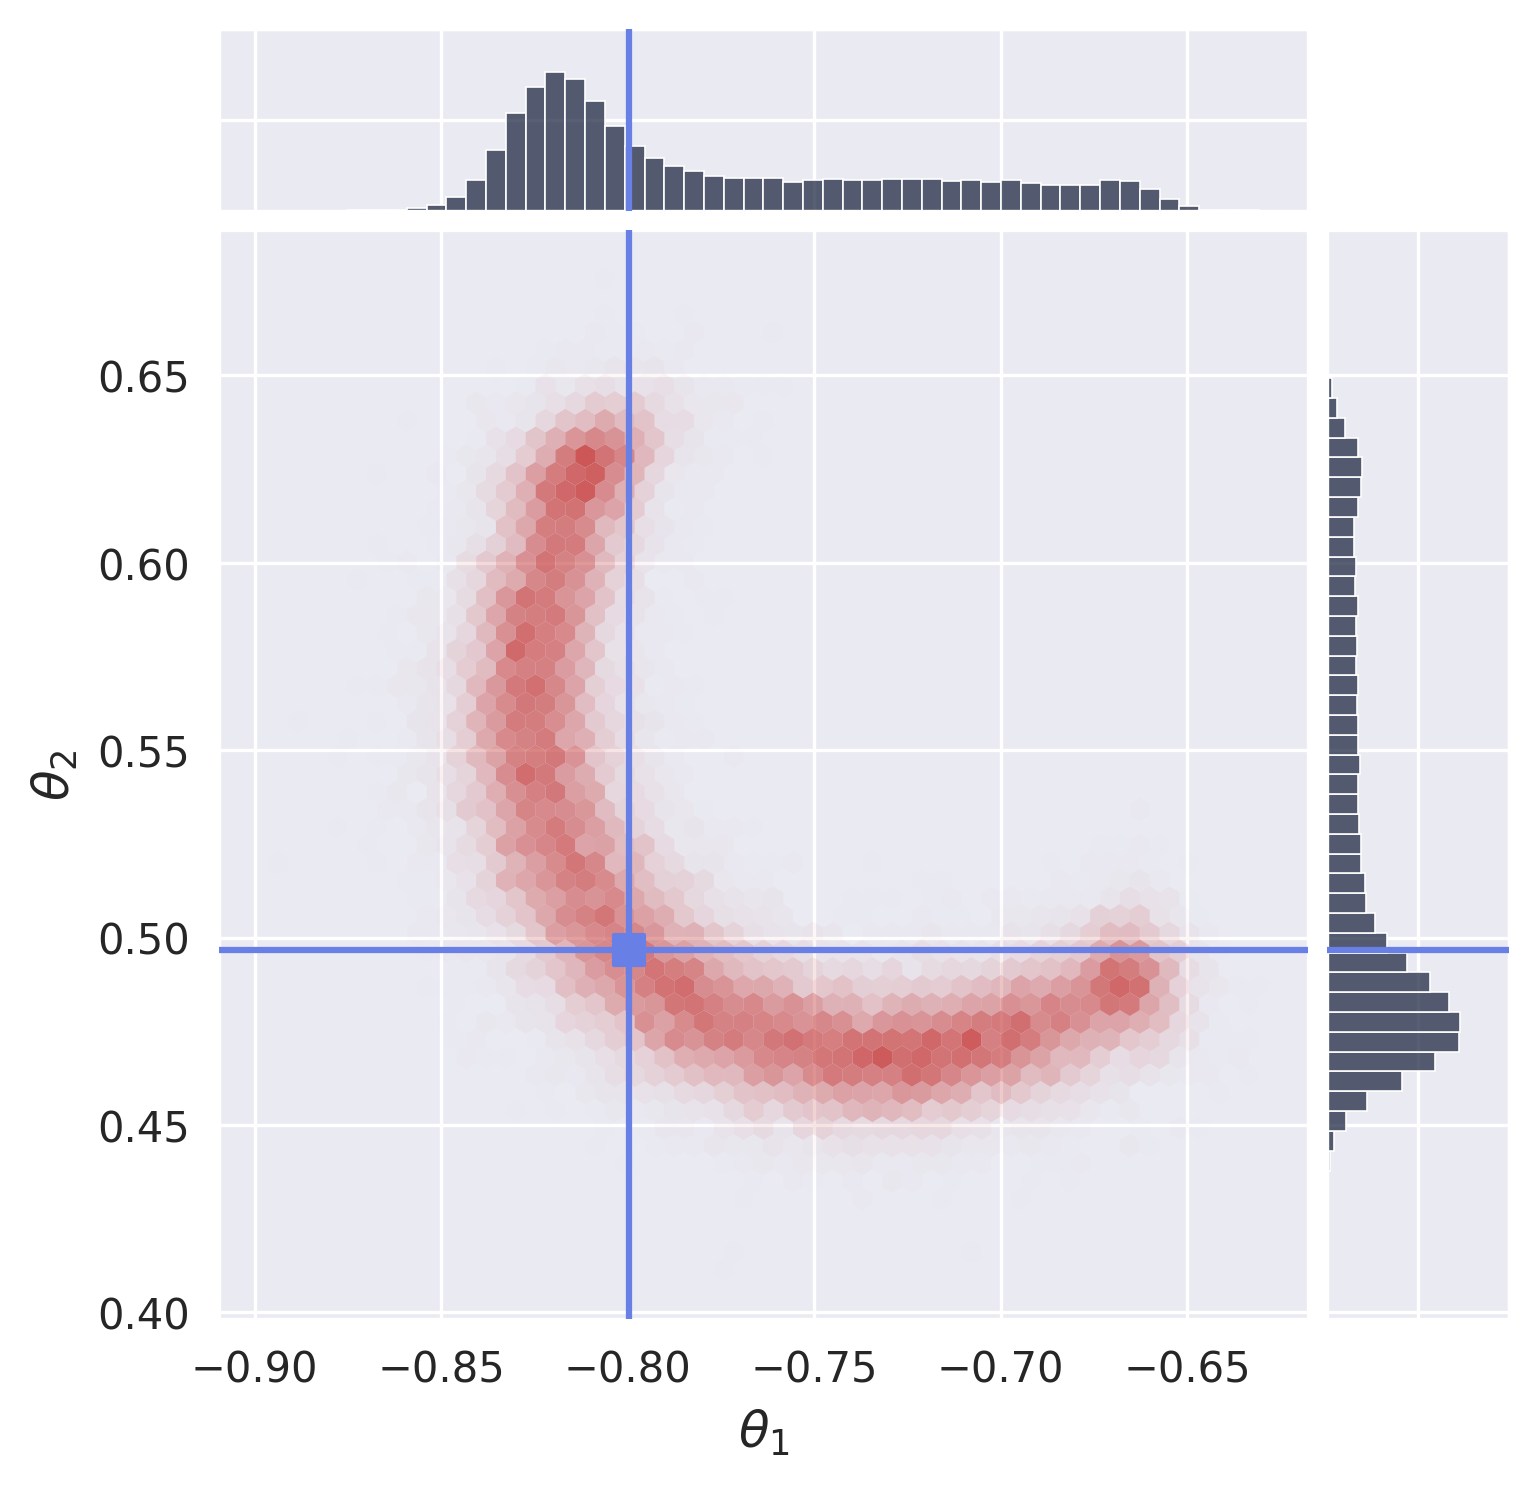
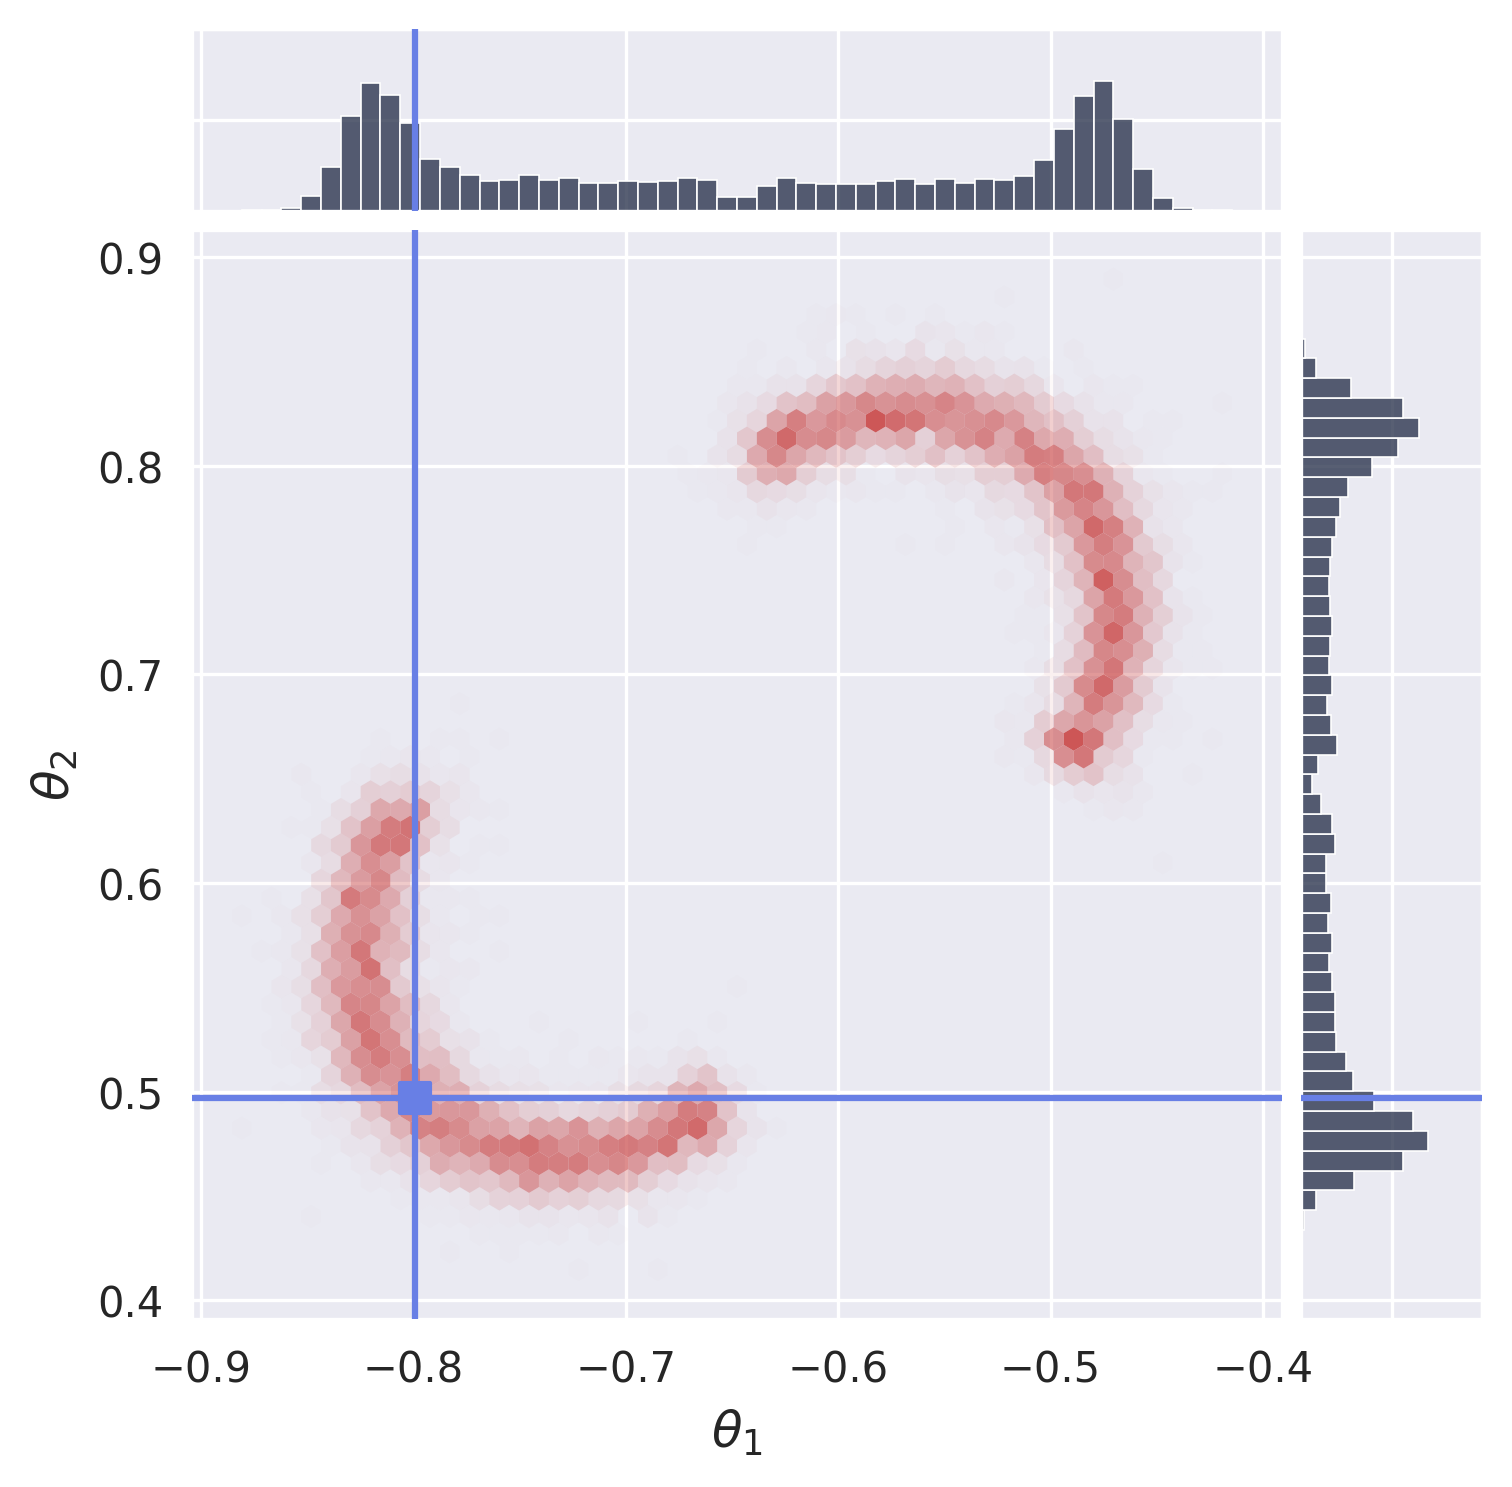
updating model to accomodate for new interface

diff --git a/examples/sbi-benchmarks/two_moons/maf_NLE/train_maf_nle.py b/examples/sbi-benchmarks/two_moons/maf_NLE/train_maf_nle.py
@@ -1,13 +1,15 @@
 """Two-moons NLE example: train a conditional MAF likelihood q(x|theta) and
-sample the posterior with NUTS (MCMC).
+sample the (multimodal) posterior with tempered SMC.
 
 Run (on a GPU node with HF access, via the gensbi conda env):
     python train_maf_nle.py --config config/config_maf_nle.yaml
 
 NLE convention (mirror of the NPE script): obs = x, cond = theta, so the flow
 models q(x | theta). The posterior is recovered at inference time by combining the
-learned likelihood with the task prior under NUTS via gensbi NLEPosterior. Helpers
-are module-level and import-safe so they can be smoke-tested on CPU.
+learned likelihood with the task prior via gensbi NLEPosterior. Two-moons posteriors
+are multimodal, so we sample with TemperedSMC (a particle cloud walked from prior to
+posterior) instead of a single MCMC/MCLMC chain, which would capture only one mode.
+Helpers are module-level and import-safe so they can be smoke-tested on CPU.
 """
 
 import os
@@ -26,9 +28,10 @@ import jax.numpy as jnp
 from flax import nnx
 import matplotlib.pyplot as plt
 
-from gensbi.normalizing_flows import make_maf, Affine, RQSpline
+from gensbi.normalizing_flows import Affine, RQSpline
+from gensbi.models import MAFlow, MAFlowParams
 from gensbi.recipes import ConditionalFlowPipeline
-from gensbi.inference import NLEPosterior
+from gensbi.inference import NLEPosterior, TemperedSMC
 from gensbi.utils.plotting import plot_marginals
 from sbibm_jax.data import TaskDataset
 from sbibm_jax.tasks import get_task
@@ -50,8 +53,8 @@ def build_flow(rngs, dim_obs, dim_cond, model_cfg):
     For NLE, dim_obs == task.dim_x (autoregressive target) and dim_cond == task.dim_theta.
     """
     transformer = build_transformer(model_cfg)
-    return make_maf(
-        rngs,
+    return MAFlow(MAFlowParams(
+        rngs=rngs,
         dim=dim_obs,
         cond_dim=dim_cond,
         n_layers=int(model_cfg.get("n_layers", 8)),
@@ -61,7 +64,7 @@ def build_flow(rngs, dim_obs, dim_cond, model_cfg):
         permutation=str(model_cfg.get("permutation", "reverse")),
         standardize=bool(model_cfg.get("standardize", True)),
         zero_init=bool(model_cfg.get("zero_init", True)),
-    )
+    ))
 
 
 def build_training_config(config, checkpoint_dir):
@@ -117,8 +120,9 @@ def build_prior(task_name, validate_args=True):
 
     get_task(...).get_prior_dist() ships with validate_args=False, so its log_prob
     returns the in-support constant *everywhere* and does NOT bound the NLE potential —
-    NUTS then wanders outside the prior support and the posterior is wrong. Re-enabling
-    validation makes log_prob = -inf outside the support, confining NUTS to the box.
+    the sampler then wanders outside the prior support and the posterior is wrong.
+    Re-enabling validation makes log_prob = -inf outside the support, which both bounds
+    the SMC tempering target and confines any inner MCMC/MCLMC moves to the box.
     """
     prior = get_task(task_name).get_prior_dist()
     prior._validate_args = validate_args
@@ -127,15 +131,31 @@ def build_prior(task_name, validate_args=True):
     return prior
 
 
-def build_posterior(pipeline, prior, mcmc_cfg, use_ema=True):
-    """Wrap the trained likelihood flow + validated prior in an NLE NUTS posterior."""
+def build_posterior(pipeline, prior, use_ema=True):
+    """Wrap the trained likelihood flow + validated prior in an NLE posterior.
+
+    The sampler (and its config) is supplied separately at sample() time; NLEPosterior
+    only holds the flow + prior and builds the log-densities for a given observation.
+    """
     flow = pipeline.ema_model if use_ema else pipeline.model
-    return NLEPosterior(
-        flow,
-        prior,
-        num_warmup=int(mcmc_cfg.get("num_warmup", 1000)),
-        num_samples=int(mcmc_cfg.get("num_samples", 50000)),
-        num_chains=int(mcmc_cfg.get("num_chains", 1)),
+    return NLEPosterior(flow, prior)
+
+
+def build_sampler(sampler_cfg):
+    """Tempered SMC sampler for the multimodal two-moons posterior.
+
+    SMC walks a particle cloud along p(theta) * q(x_o|theta)^beta for beta: 0 -> 1,
+    populating every mode of the posterior (a single MCMC/MCLMC chain captures only
+    one). num_particles is the number of posterior samples returned. The inner
+    rejuvenation kernel defaults to adjusted MCLMC ("mclmc"); "nuts" is the fallback.
+    """
+    return TemperedSMC(
+        num_particles=int(sampler_cfg.get("num_particles", 20000)),
+        target_ess=float(sampler_cfg.get("target_ess", 0.5)),
+        num_mcmc_steps=int(sampler_cfg.get("num_mcmc_steps", 10)),
+        inner_kernel=str(sampler_cfg.get("inner_kernel", "mclmc")),
+        inner_step_size=float(sampler_cfg.get("inner_step_size", 0.1)),
+        inner_num_integration_steps=int(sampler_cfg.get("inner_num_integration_steps", 5)),
     )
 
 
@@ -162,7 +182,7 @@ def main():
     task_name = config["task_name"]
     model_cfg = config["model"]
     train_cfg = config["training"]
-    mcmc_cfg = config["mcmc"]
+    sampler_cfg = config["sampler"]
     eval_cfg = config["evaluation"]
 
     # --- task / data (raw loader: normalize=False; x is standardized in-flow) ---
@@ -195,16 +215,20 @@ def main():
         pipeline.train(nnx.Rngs(0))
         print("Training complete.")
 
-    # --- NLE posterior via NUTS for one observation ---
+    # --- NLE posterior via tempered SMC for one observation ---
     idx = int(eval_cfg["observation_idx"])
     obs, _ = task.get_reference(idx)
     true_param = np.asarray(task.get_true_parameters(idx)).reshape(-1)
 
     prior = build_prior(task_name)
-    posterior = build_posterior(pipeline, prior, mcmc_cfg, use_ema=True)
-    print(f"Sampling posterior with NUTS "
-          f"(warmup={mcmc_cfg['num_warmup']}, samples={mcmc_cfg['num_samples']})...")
-    samples = posterior.sample(jax.random.PRNGKey(0), obs)   # (n, dim_theta, 1)
+    posterior = build_posterior(pipeline, prior, use_ema=True)
+    sampler = build_sampler(sampler_cfg)
+    print(f"Sampling multimodal posterior with tempered SMC "
+          f"(num_particles={sampler.num_particles}, inner_kernel={sampler.inner_kernel})...")
+    samples, info = posterior.sample(jax.random.PRNGKey(0), obs,
+                                     sampler=sampler, return_info=True)  # (n, dim_theta, 1)
+    print(f"SMC done: {info.num_temperature_steps} temperature steps, "
+          f"log_evidence={info.log_evidence:.3f}")
 
     # --- contour plot of the posterior samples with the true value marked ---
     plot_marginals(np.asarray(samples[..., 0]), plot_levels=False, backend="seaborn",

diff --git a/examples/sbi-benchmarks/two_moons/tarflow/train_tarflow_npe.py b/examples/sbi-benchmarks/two_moons/tarflow/train_tarflow_npe.py
@@ -26,27 +26,37 @@ import jax.numpy as jnp
 from flax import nnx
 import matplotlib.pyplot as plt
 
-from gensbi.normalizing_flows import make_tarflow
+from gensbi.models import TarFlow, TarFlowParams
 from gensbi.recipes import ConditionalFlowPipeline
 from gensbi.utils.plotting import plot_2d_dist_contour
 from sbibm_jax.data import TaskDataset
 
 
 def build_flow(rngs, dim_obs, dim_cond, model_cfg):
-    """Build the TransformerFlow (TarFlow) stack from the model config section."""
-    return make_tarflow(
-        rngs,
+    """Build the TarFlow (transformer autoregressive flow) stack from the model config.
+
+    TarFlowParams uses the head_dim/num_heads convention and derives the total width
+    channels = head_dim * num_heads. The config keeps specifying channels + head_dim
+    (channels must be divisible by head_dim), so num_heads = channels // head_dim here.
+    """
+    channels = int(model_cfg.get("channels", 64))
+    head_dim = int(model_cfg.get("head_dim", 16))
+    if channels % head_dim != 0:
+        raise ValueError(
+            f"channels ({channels}) must be divisible by head_dim ({head_dim})")
+    return TarFlow(TarFlowParams(
+        rngs=rngs,
         dim=dim_obs,
         cond_dim=dim_cond,
         num_blocks=int(model_cfg.get("num_blocks", 8)),
-        channels=int(model_cfg.get("channels", 64)),
         layers_per_block=int(model_cfg.get("layers_per_block", 2)),
-        head_dim=int(model_cfg.get("head_dim", 16)),
+        head_dim=head_dim,
+        num_heads=channels // head_dim,
         block_size=int(model_cfg.get("block_size", 1)),
         permutation=str(model_cfg.get("permutation", "flip")),
         standardize=bool(model_cfg.get("standardize", True)),
         zero_init=bool(model_cfg.get("zero_init", True)),
-    )
+    ))
 
 
 def build_training_config(config, checkpoint_dir):

diff --git a/examples/sbi-benchmarks/two_moons/maf_NPE/train_maf_npe.py b/examples/sbi-benchmarks/two_moons/maf_NPE/train_maf_npe.py
@@ -23,7 +23,8 @@ import jax.numpy as jnp
 from flax import nnx
 import matplotlib.pyplot as plt
 
-from gensbi.normalizing_flows import make_maf, Affine, RQSpline
+from gensbi.normalizing_flows import Affine, RQSpline
+from gensbi.models import MAFlow, MAFlowParams
 from gensbi.recipes import ConditionalFlowPipeline
 from gensbi.utils.plotting import plot_2d_dist_contour
 from sbibm_jax.data import TaskDataset
@@ -42,8 +43,8 @@ def build_transformer(model_cfg):
 def build_flow(rngs, dim_obs, dim_cond, model_cfg):
     """Build the MAF Flow from the model config section."""
     transformer = build_transformer(model_cfg)
-    return make_maf(
-        rngs,
+    return MAFlow(MAFlowParams(
+        rngs=rngs,
         dim=dim_obs,
         cond_dim=dim_cond,
         n_layers=int(model_cfg.get("n_layers", 8)),
@@ -53,7 +54,7 @@ def build_flow(rngs, dim_obs, dim_cond, model_cfg):
         permutation=str(model_cfg.get("permutation", "reverse")),
         standardize=bool(model_cfg.get("standardize", True)),
         zero_init=bool(model_cfg.get("zero_init", True)),
-    )
+    ))
 
 
 def build_training_config(config, checkpoint_dir):